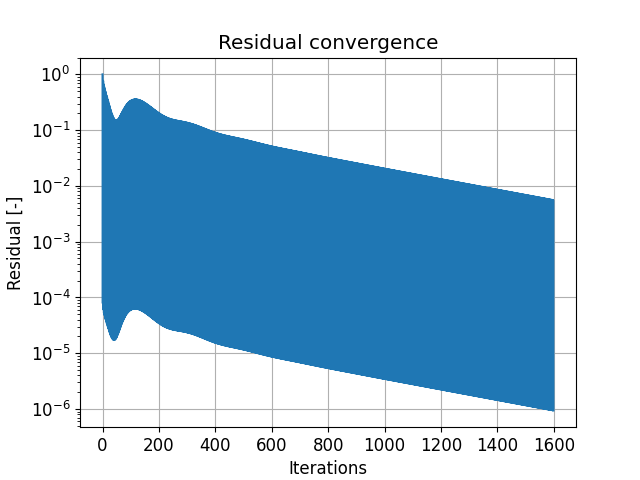
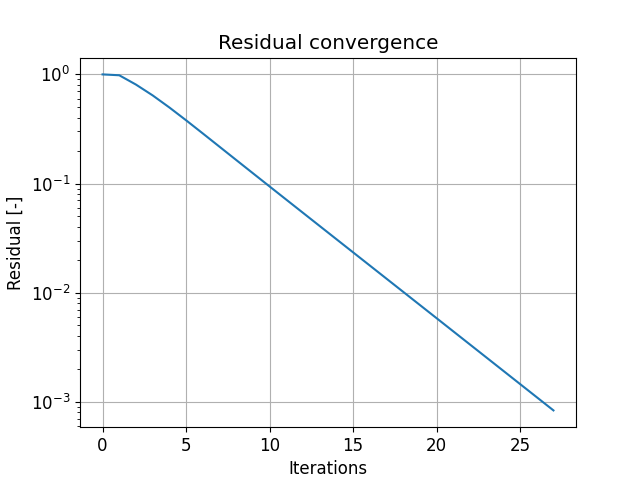
.

diff --git a/MTF073/T2/Martin_T2.py b/MTF073/T2/Martin_T2.py
@@ -50,7 +50,7 @@ k       = 1      # Thermal conductivity
 Cp      = 500    # Specific heat
 gamma = k/Cp   # Calculated diffusion coefficient
 
-unsteady = True # True or False
+unsteady = False # True or False
 
 if unsteady:
     # For unsteady:
@@ -302,4 +302,9 @@ if unsteady and createAnimatedPlots:
 # No arrays should be changed!
 cF.createAdditionalPlots(
                          )
+
+probeX = np.array([0.1, 0.9, 0.1, 0.9])
+probeY = np.array([0.1, 0.1, 0.9, 0.9])
+steady_state_values = cF.probe(nodeX, nodeY, T,probeX, probeY)
+print(steady_state_values)
 #%%
